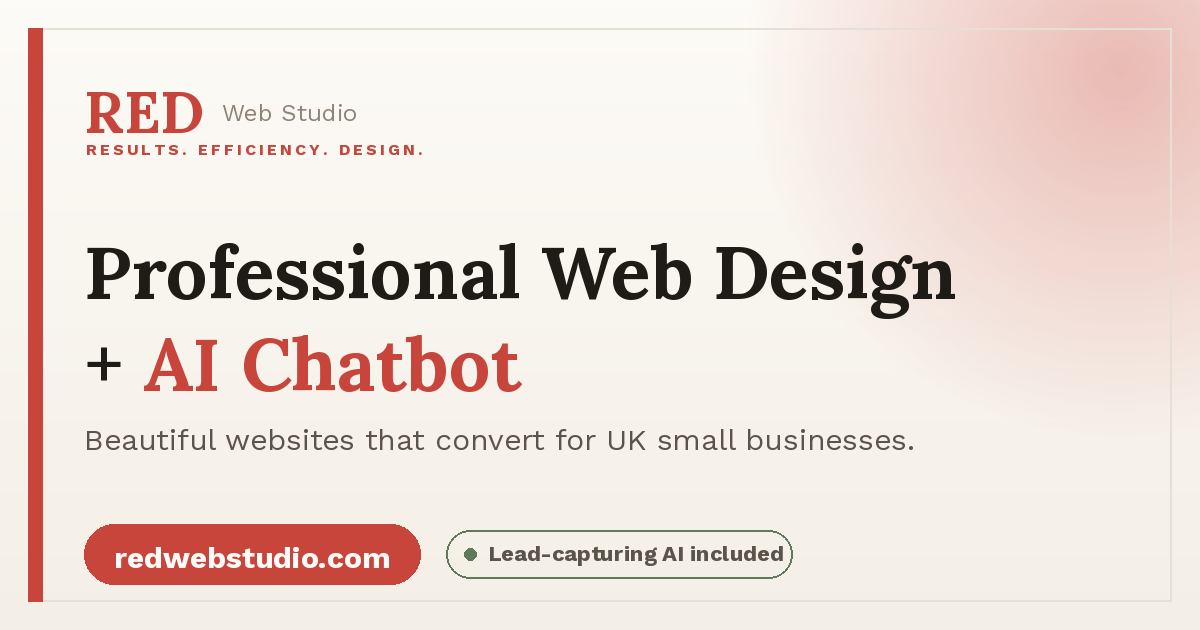
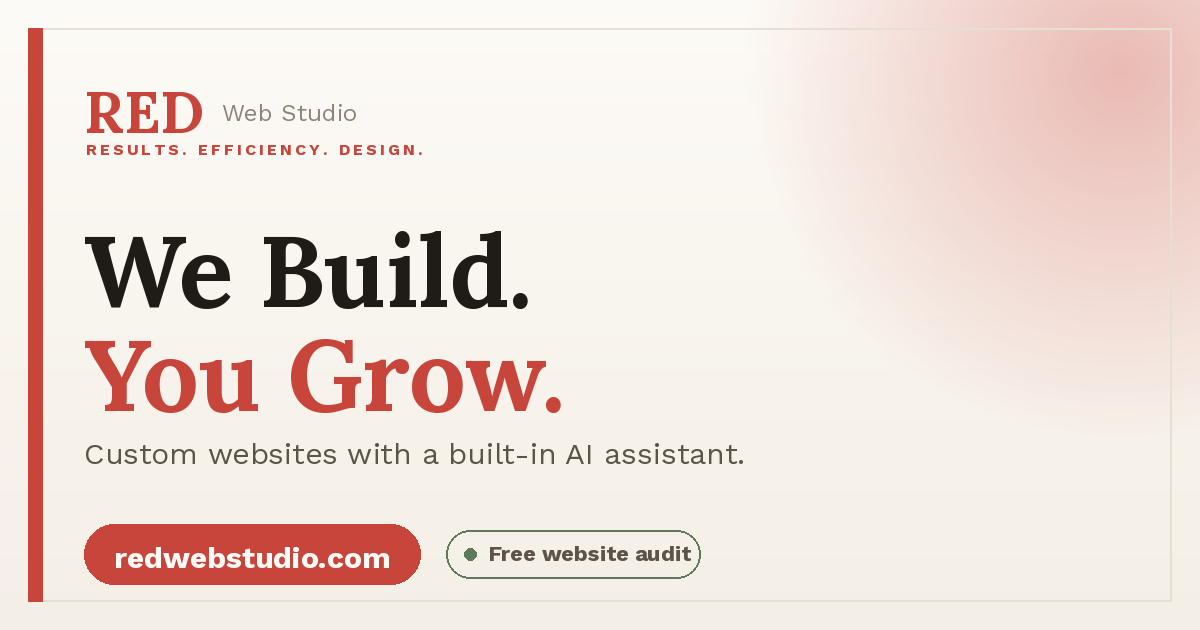
Rework share card copy to avoid duplicating the link title/description
- Headline now uses the brand tagline 'We Build. You Grow.' instead of
  repeating the og:title ('Professional Web Design + AI Chatbot')
- Subline changed to 'Custom websites with a built-in AI assistant.'
  and drops the 'small businesses' wording
- Bottom chip changed to 'Free website audit'
- Bump og:image to ?v=3 so Facebook/WhatsApp fetch the new image

Changed region(s): [[0.0617, 0.3619, 0.8017, 0.754], [0.4008, 0.8444, 0.6783, 0.9349], [0.5858, 0.8143, 0.6167, 0.8444]]

diff --git a/docs/index.html b/docs/index.html
@@ -15,8 +15,8 @@
     <meta property="og:description" content="Professional websites for small businesses in the UK. Beautiful sites that convert, plus an AI chatbot that captures leads 24/7.">
     <meta property="og:url" content="https://redwebstudio.com/">
     <meta property="og:site_name" content="RED Web Studio">
-    <meta property="og:image" content="https://redwebstudio.com/og-image.png?v=2">
-    <meta property="og:image:secure_url" content="https://redwebstudio.com/og-image.png?v=2">
+    <meta property="og:image" content="https://redwebstudio.com/og-image.png?v=3">
+    <meta property="og:image:secure_url" content="https://redwebstudio.com/og-image.png?v=3">
     <meta property="og:image:type" content="image/png">
     <meta property="og:image:width" content="1200">
     <meta property="og:image:height" content="630">
@@ -27,7 +27,7 @@
     <meta name="twitter:card" content="summary_large_image">
     <meta name="twitter:title" content="RED Web Studio | Professional Web Design + AI Chatbot">
     <meta name="twitter:description" content="Professional websites for small businesses in the UK. Beautiful sites that convert, plus an AI chatbot that captures leads 24/7.">
-    <meta name="twitter:image" content="https://redwebstudio.com/og-image.png?v=2">
+    <meta name="twitter:image" content="https://redwebstudio.com/og-image.png?v=3">
     <meta name="twitter:image:alt" content="RED Web Studio — Professional Web Design + AI Chatbot for UK small businesses">
 
     <link rel="canonical" href="https://redwebstudio.com/">

diff --git a/website/index.html b/website/index.html
@@ -15,8 +15,8 @@
     <meta property="og:description" content="Professional websites for small businesses in the UK. Beautiful sites that convert, plus an AI chatbot that captures leads 24/7.">
     <meta property="og:url" content="https://redwebstudio.com/">
     <meta property="og:site_name" content="RED Web Studio">
-    <meta property="og:image" content="https://redwebstudio.com/og-image.png?v=2">
-    <meta property="og:image:secure_url" content="https://redwebstudio.com/og-image.png?v=2">
+    <meta property="og:image" content="https://redwebstudio.com/og-image.png?v=3">
+    <meta property="og:image:secure_url" content="https://redwebstudio.com/og-image.png?v=3">
     <meta property="og:image:type" content="image/png">
     <meta property="og:image:width" content="1200">
     <meta property="og:image:height" content="630">
@@ -27,7 +27,7 @@
     <meta name="twitter:card" content="summary_large_image">
     <meta name="twitter:title" content="RED Web Studio | Professional Web Design + AI Chatbot">
     <meta name="twitter:description" content="Professional websites for small businesses in the UK. Beautiful sites that convert, plus an AI chatbot that captures leads 24/7.">
-    <meta name="twitter:image" content="https://redwebstudio.com/og-image.png?v=2">
+    <meta name="twitter:image" content="https://redwebstudio.com/og-image.png?v=3">
     <meta name="twitter:image:alt" content="RED Web Studio — Professional Web Design + AI Chatbot for UK small businesses">
 
     <link rel="canonical" href="https://redwebstudio.com/">

diff --git a/scripts/generate_og_image.py b/scripts/generate_og_image.py
@@ -79,18 +79,15 @@ for ch in "RESULTS. EFFICIENCY. DESIGN.":
     draw.text((tx, ty), ch, font=f_tagline, fill=ACCENT)
     tx += draw.textbbox((0, 0), ch, font=f_tagline)[2] + 3
 
-# --- Headline (serif, ink) ---
-hy = 224
-draw.text((MARGIN, hy), "Professional Web Design", font=f_head, fill=INK)
-a = "+ "
-b = "AI Chatbot"
-draw.text((MARGIN, hy + 92), a, font=f_head, fill=INK)
-aw = draw.textbbox((0, 0), a, font=f_head)[2]
-draw.text((MARGIN + aw, hy + 92), b, font=f_head, fill=ACCENT)
+# --- Headline (serif) — brand tagline, distinct from the link title below ---
+f_big = font("Lora-Bold.ttf", 100)
+hy = 206
+draw.text((MARGIN, hy), "We Build.", font=f_big, fill=INK)
+draw.text((MARGIN, hy + 104), "You Grow.", font=f_big, fill=ACCENT)
 
 # --- Subheadline ---
-draw.text((MARGIN, hy + 198),
-          "Beautiful websites that convert for UK small businesses.",
+draw.text((MARGIN, hy + 230),
+          "Custom websites with a built-in AI assistant.",
           font=f_sub, fill=INK_SOFT)
 
 # --- Bottom row: URL pill + feature chip ---
@@ -105,7 +102,7 @@ draw.rounded_rectangle([MARGIN, by, MARGIN + pill_w, by + ph], radius=30, fill=A
 draw.text((MARGIN + pad_x, by + pad_y), url, font=f_pill, fill=PAPER)
 
 # Feature chip (sage outline)
-chip = "Lead-capturing AI included"
+chip = "Free website audit"
 chx = MARGIN + pill_w + 26
 chip_tw = draw.textbbox((0, 0), chip, font=f_chip)[2]
 draw.rounded_rectangle([chx, by + 6, chx + chip_tw + 50, by + ph - 6],
